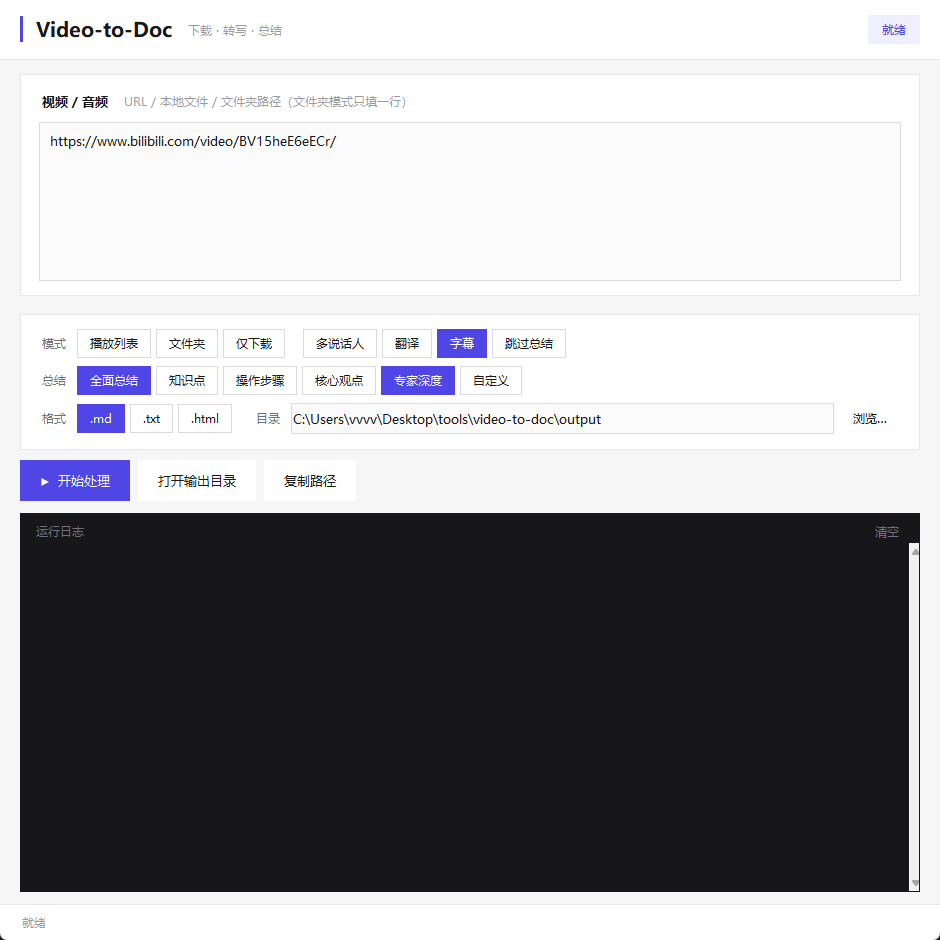
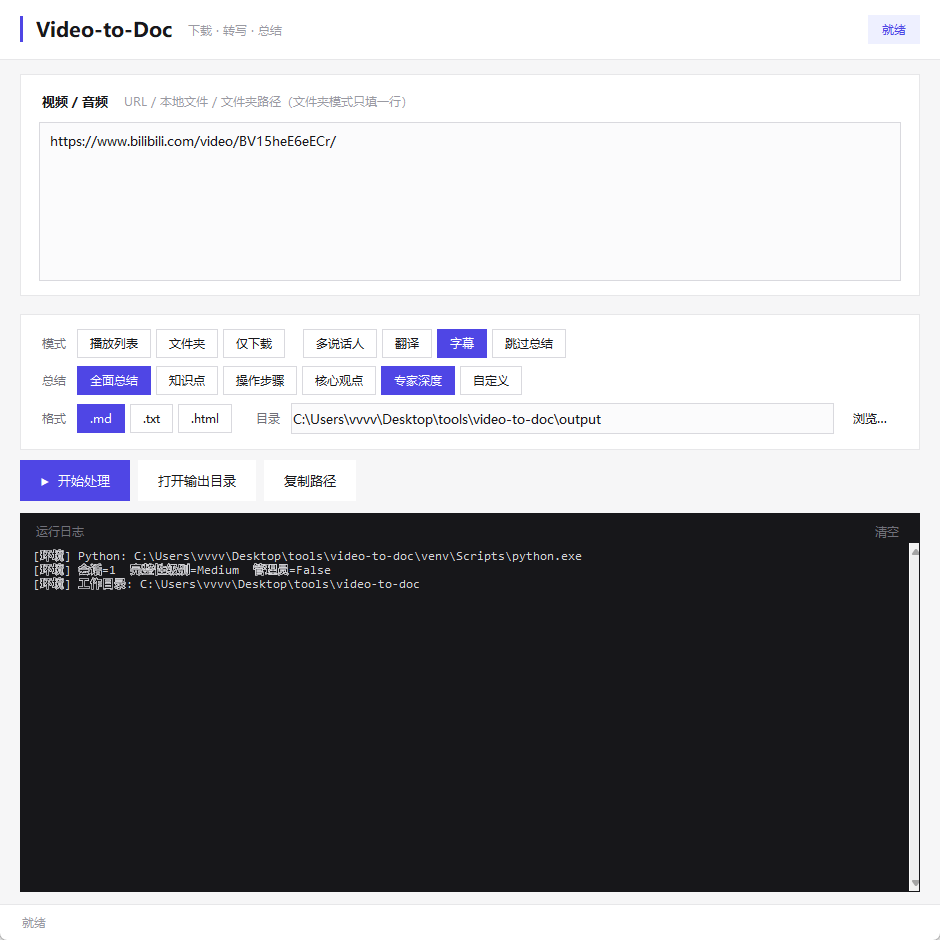
chore: 清理冗余启动器与临时产物，修正文档
用户反馈 .vbs 启动与「打开输出目录」均已正常（完整性级别问题已解决），
本次做一轮收尾清理与全项检查。

## 清理

- 删除 `启动.bat`：与 `启动.vbs` 功能重复，且早期在部分环境下起不来
- 删除 `视频转文档.lnk`：本机生成的带绝对路径快捷方式，不应留在仓库里
  （`*.lnk` 已在 .gitignore 中）
- 删除测试残留目录 `tmp*/`（其中含上一次集成测试生成的 output 与 md 文件）
- 删除 `__pycache__/`、`.pytest_cache/`

保留的启动/维护文件各司其职：

  启动.vbs           正常启动
  启动（调试）.bat     双击没反应时用，保留控制台显示完整报错
  修复完整性级别.ps1   修复「打开目录被拒」这类完整性级别问题
  诊断.ps1           收集环境信息到 诊断结果.txt

## 文档

- 启动方式表按实际情况重写（不再罗列已删除的文件）
- `docs/screenshot-folder.png` 原本是孤儿文件（从未在 README 引用），
  现在用于展示"应用内目录列表"这一兜底功能
- 重新生成 `docs/screenshot-gui.png`，与当前界面一致（截图里可见新增的
  `[环境] 会话=1 完整性级别=Medium` 启动日志）

## 检查结果

  191 个测试通过
  全部 py 文件编译通过
  0 处未使用 import
  配置项与代码引用一一对应，无失效配置
  所有模块均被引用，无孤立源文件
  main.py --check 环境自检全绿
  .vbs 启动正常，进程完整性级别 = Medium
  「打开输出目录」实测成功

Changed region(s): [[0.0309, 0.5862, 0.617, 0.6479]]

diff --git a/README.md b/README.md
@@ -87,14 +87,7 @@ summarizer:
 
 **图形界面（推荐）：**
 
-Windows 下有 4 种启动方式，按可靠性排序：
-
-| 方式 | 说明 |
-|---|---|
-| **双击 `视频转文档.lnk`** | 最稳。快捷方式直接指向 pythonw.exe，不依赖任何文件关联 |
-| 双击 `启动.bat` | 不依赖 `.vbs` 关联；启动前会先自检依赖 |
-| 双击 `启动（调试）.bat` | 保留控制台并显示完整报错，**双击没反应时用它定位** |
-| 双击 `启动.vbs` | 老方式，依赖 `.vbs` 文件关联，部分环境会被安全软件拦 |
+Windows 下**双击 `启动.vbs`** 即可。
 
 也可以用命令行启动：
 
@@ -102,10 +95,12 @@ Windows 下有 4 种启动方式，按可靠性排序：
 python gui.py
 ```
 
-> **为什么提供这么多个启动器？**
-> 有些机器上 `.bat` / `.vbs` 的文件关联会被安全软件或系统优化工具改坏，
-> 双击会弹出"打开方式"对话框。`.lnk` 快捷方式由资源管理器直接执行，
-> 不经过文件关联，因此最稳妥。
+| 文件 | 用途 |
+|---|---|
+| `启动.vbs` | 正常启动（隐藏控制台窗口） |
+| `启动（调试）.bat` | **双击没反应时用它**：保留控制台并显示完整报错 |
+| `修复完整性级别.ps1` | 修复「打开输出目录被系统拒绝」等完整性问题（见「常见问题」） |
+| `诊断.ps1` | 收集环境信息到 `诊断结果.txt`，反馈问题时附上 |
 
 GUI 操作：
 - 输入框填写视频链接、本地文件路径或文件夹路径（每行一个）
@@ -114,8 +109,13 @@ GUI 操作：
 - 勾选模式：播放列表、文件夹模式（互斥）、仅下载、多说话人识别、翻译、字幕、跳过总结
 - 选择总结风格——选"自定义"时显示提示词输入框，可直接在界面中编写
 - 点"开始处理"，日志区实时显示进度
-- 点"打开输出目录"在资源管理器中定位产物；若系统拒绝打开（安全软件拦截等），
-  会自动改为**应用内目录列表**，并输出一段环境自检信息到日志，便于排查
+- 点"打开输出目录"在资源管理器中定位产物；若系统拒绝打开（如完整性问题），
+  会自动改为**应用内目录列表**（可直接双击打开文件、进入子目录），
+  并把环境自检信息写进日志，便于排查
+
+  应用内目录列表长这样（`文档` 失败时的兜底，任何时候都能用）：
+
+  ![应用内目录列表](docs/screenshot-folder.png)
 
 **命令行：**
 
